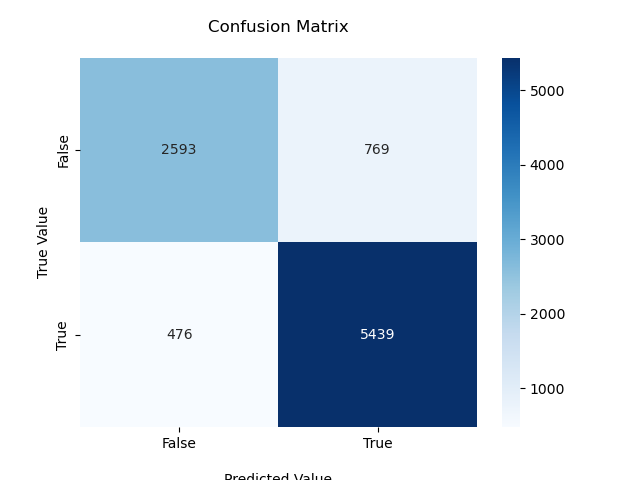
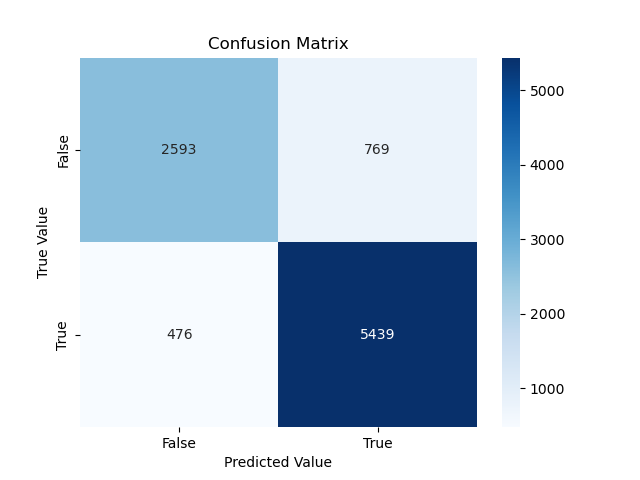
change readme

Changed region(s): [[0.3125, 0.0312, 0.5625, 0.125], [0.3438, 0.9375, 0.5312, 1.0]]

diff --git a/model/results.py b/model/results.py
@@ -23,8 +23,8 @@ def main():
 
         ax = sns.heatmap(cf_matrix, annot=True, cmap='Blues', fmt='g')
 
-        ax.set_title('Confusion Matrix\n');
-        ax.set_xlabel('\nPredicted Value')
+        ax.set_title('Confusion Matrix');
+        ax.set_xlabel('Predicted Value')
         ax.set_ylabel('True Value');
 
         ax.xaxis.set_ticklabels(['False','True'])
